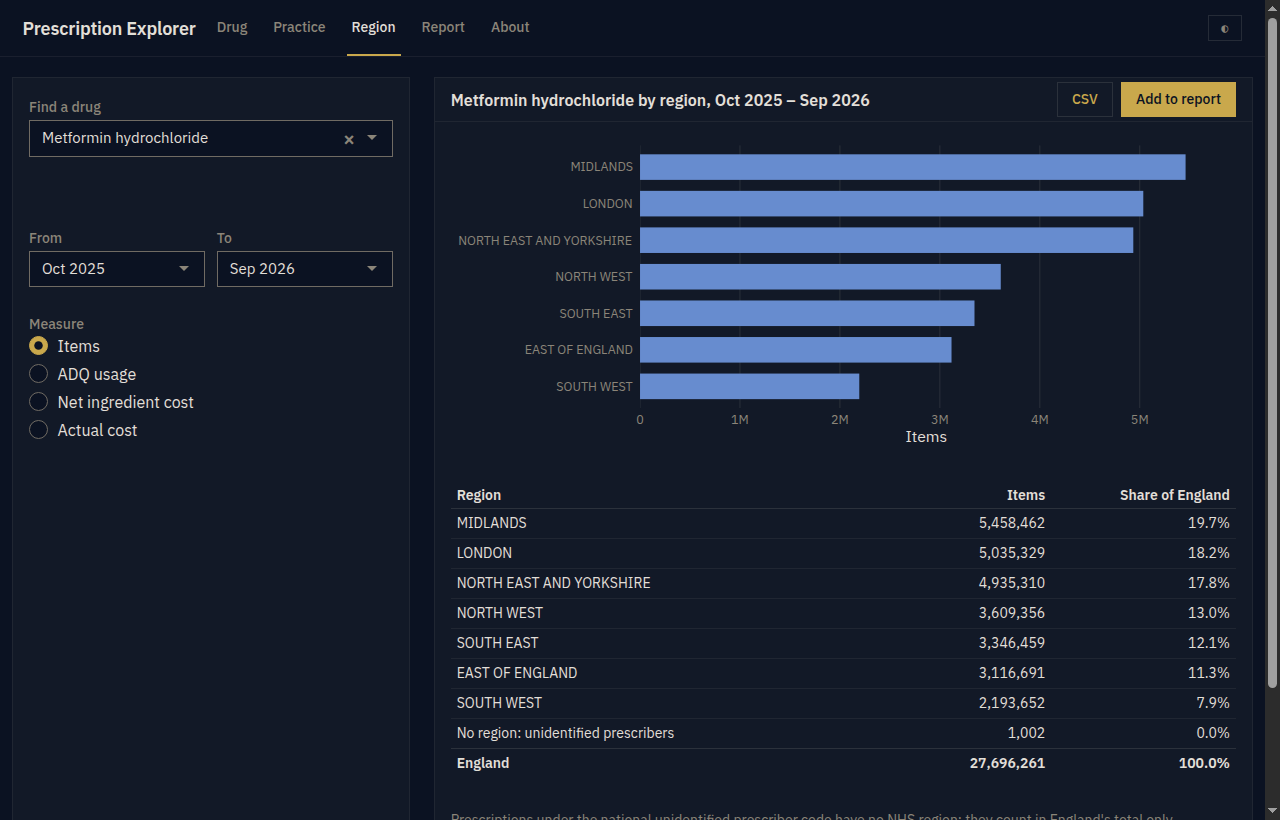
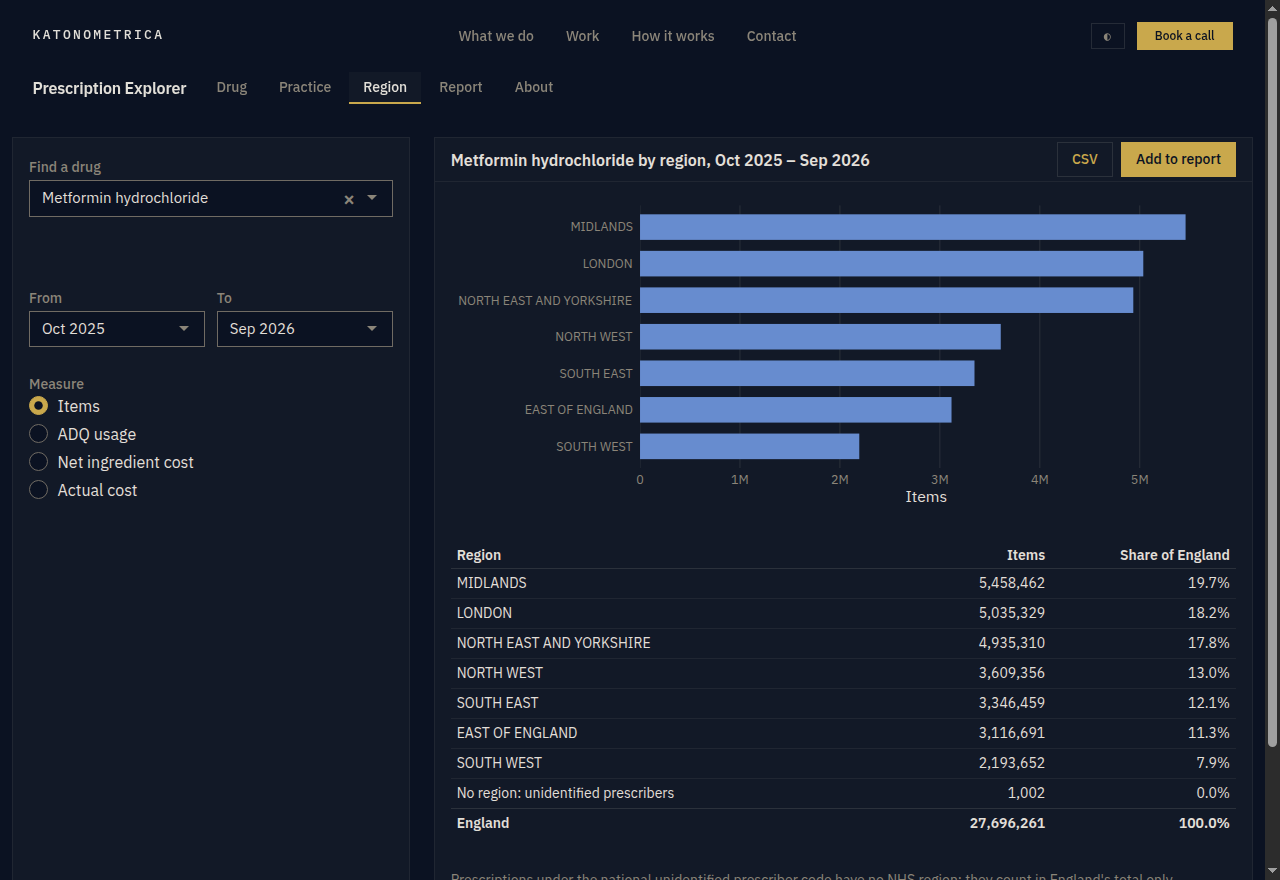
P7-05 (part) · README: the screenshots with the site's bar (#140)
Refs #137

The README's four screenshots retaken from the live app on main
(ce450a6), over the full twelve months, in the dark theme:
katonometrica.com's bar with the app's name and tabs under it. They are
1280 x 880, 60 px taller than before, so that each shows as much of its
view as it did.

diff --git a/NEWS.md b/NEWS.md
@@ -1,6 +1,6 @@
 # prexp (development version)
 
-- **katonometrica.com's top bar** (#137): the app carries the site's own bar, with the KATONOMETRICA wordmark, its four sections, the theme button and Book a call, and the app's name and five tabs on a row of their own under it, after the site's skip link. The two rows are one header, sticky at the top: transparent at first, and on the site's blurred background once the page scrolls; on a short screen, or a page zoomed in, it scrolls with the page. On a phone the site's hamburger opens its drawer, and the tabs stay on screen. The content keeps its full width.
+- **katonometrica.com's top bar** (#137): the app carries the site's own bar, with the KATONOMETRICA wordmark, its four sections, the theme button and Book a call, and the app's name and five tabs on a row of their own under it, after the site's skip link. The two rows are one header, sticky at the top: transparent at first, and on the site's blurred background once the page scrolls; on a short screen, or a page zoomed in, it scrolls with the page. On a phone the site's hamburger opens its drawer, and the tabs stay on screen. The content keeps its full width. The README's screenshots show it.
 - **KATONOMETRICA's look** (#129, the app's part): the app looks like katonometrica.com. Dark by default, with a light theme and a button that switches it and is remembered; IBM Plex Sans and Mono, served with the app; the brand's navy and gold, square corners and flat surfaces. The charts take the theme's colours without being drawn again. Where the site's colours fall short of WCAG AA, the app uses stronger ones.
 - **The exports in KATONOMETRICA's look** (#129, the exports' part): the PowerPoint, Word and Excel files take the brand's light colours, the app's chart colours among them, and IBM Plex Sans. An Office file cannot carry the font, so their themes name it with IBM's classification of it: Microsoft 365 downloads IBM Plex as a cloud font, and Office without cloud fonts, or LibreOffice, draws a sans of its own chosen by that classification. Slides and tables are measured in both Plex and Arial, so that they fit either. The templates' colour schemes are the brand's, for anything a reader adds, and the cover and the title page carry the KATONOMETRICA wordmark, linked to katonometrica.com.
 - **One message for each lookup** (#125): a view's results are drawn again only when their layout changes, and each chart once, at the width the browser reports. The shared cache keeps drawn charts as well as fetches.
